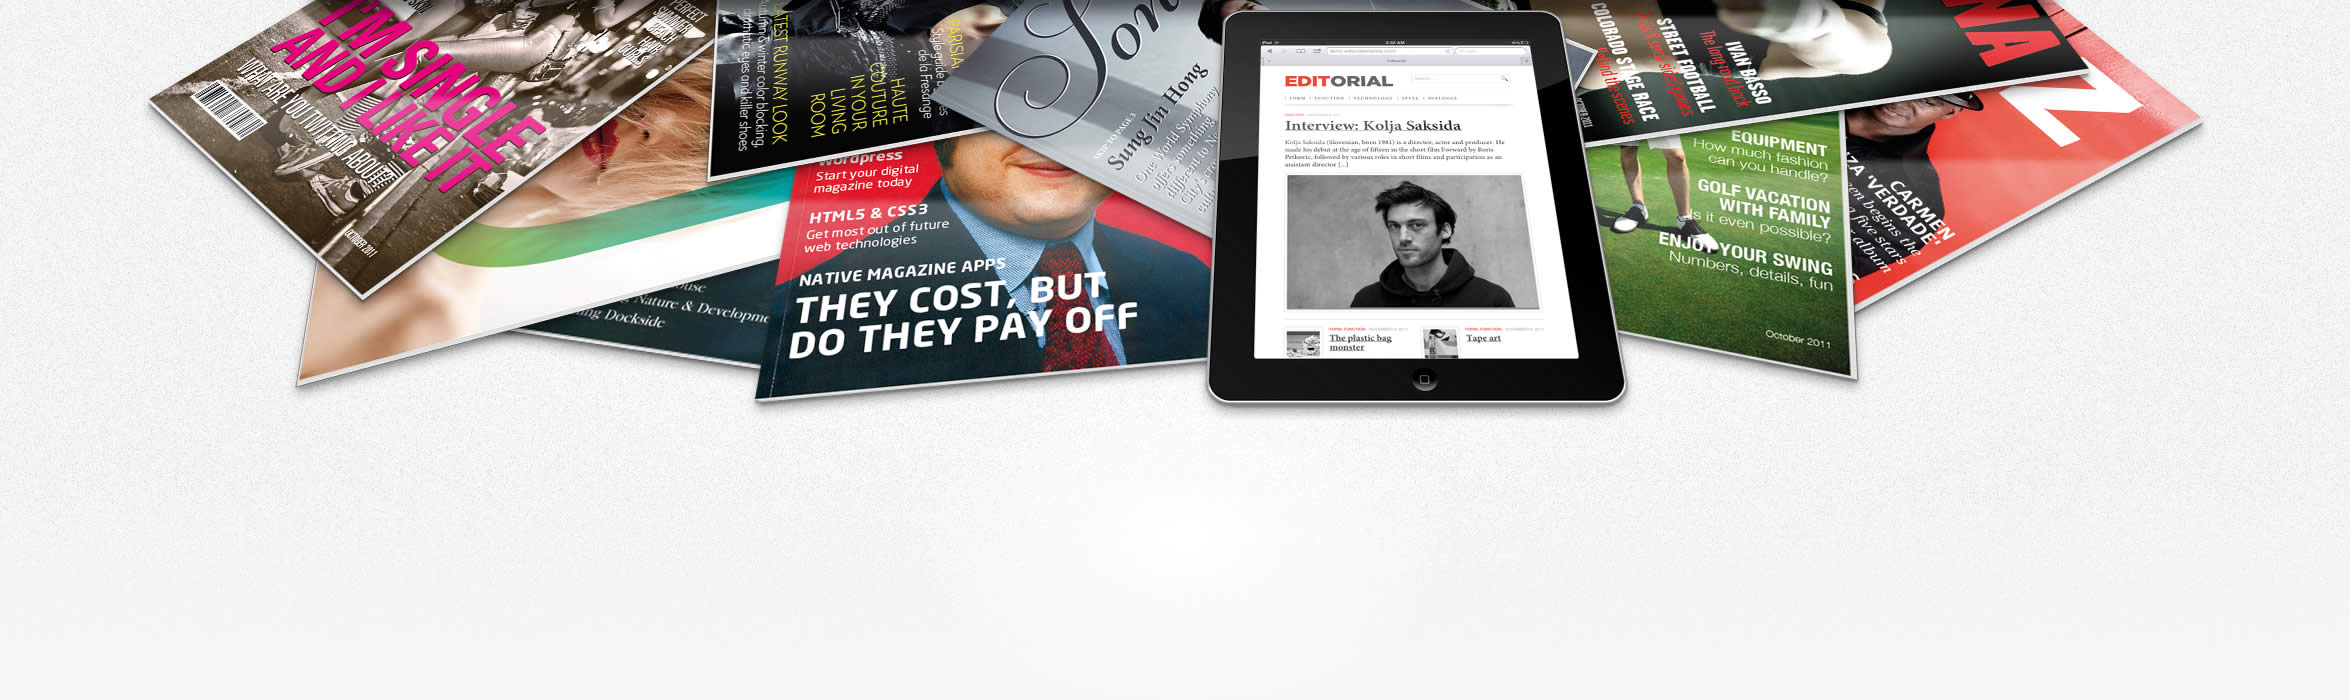
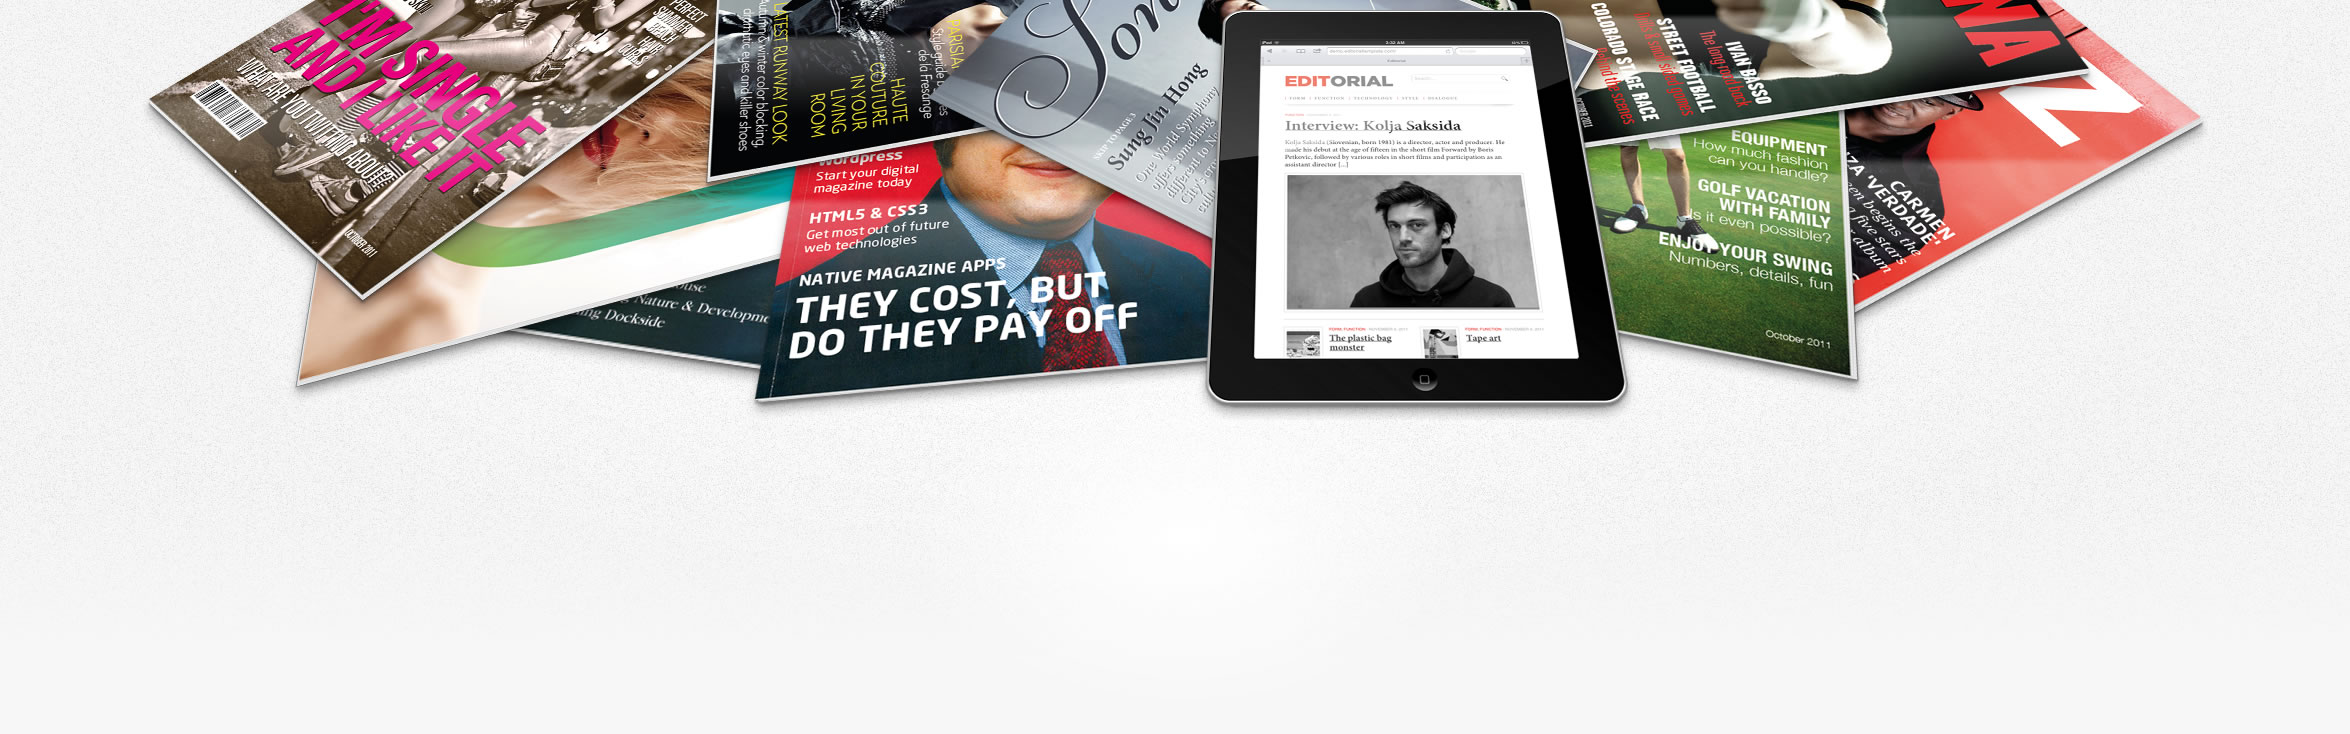
new backgrounds

Changed region(s): [[0.0621, 0.0, 0.963, 0.6]]

diff --git a/marketing/assets/css/style.css b/marketing/assets/css/style.css
@@ -46,7 +46,7 @@ abbr[title] {border-bottom:1px dotted;cursor:help;}
 
 html {overflow-y:scroll;background:#f7f7f7;}
 body {margin:0 auto;min-width:320px;font:100%/20px helvetica,arial,sans-serif;color:#262121;
-background:#f7f7f7 url(../images/bgr/body.png) repeat-x;}
+background:#f7f7f7 url(../images/bgr/body.jpg) repeat-x;}
 .home {background:#f7f7f7 url(../images/bgr/home-480.jpg) 50% 0 no-repeat;}
 
 .features section,.abilities li,.price-tag,.home .content h3,.price-tag h4,.price strong,.included li,.support .col,
